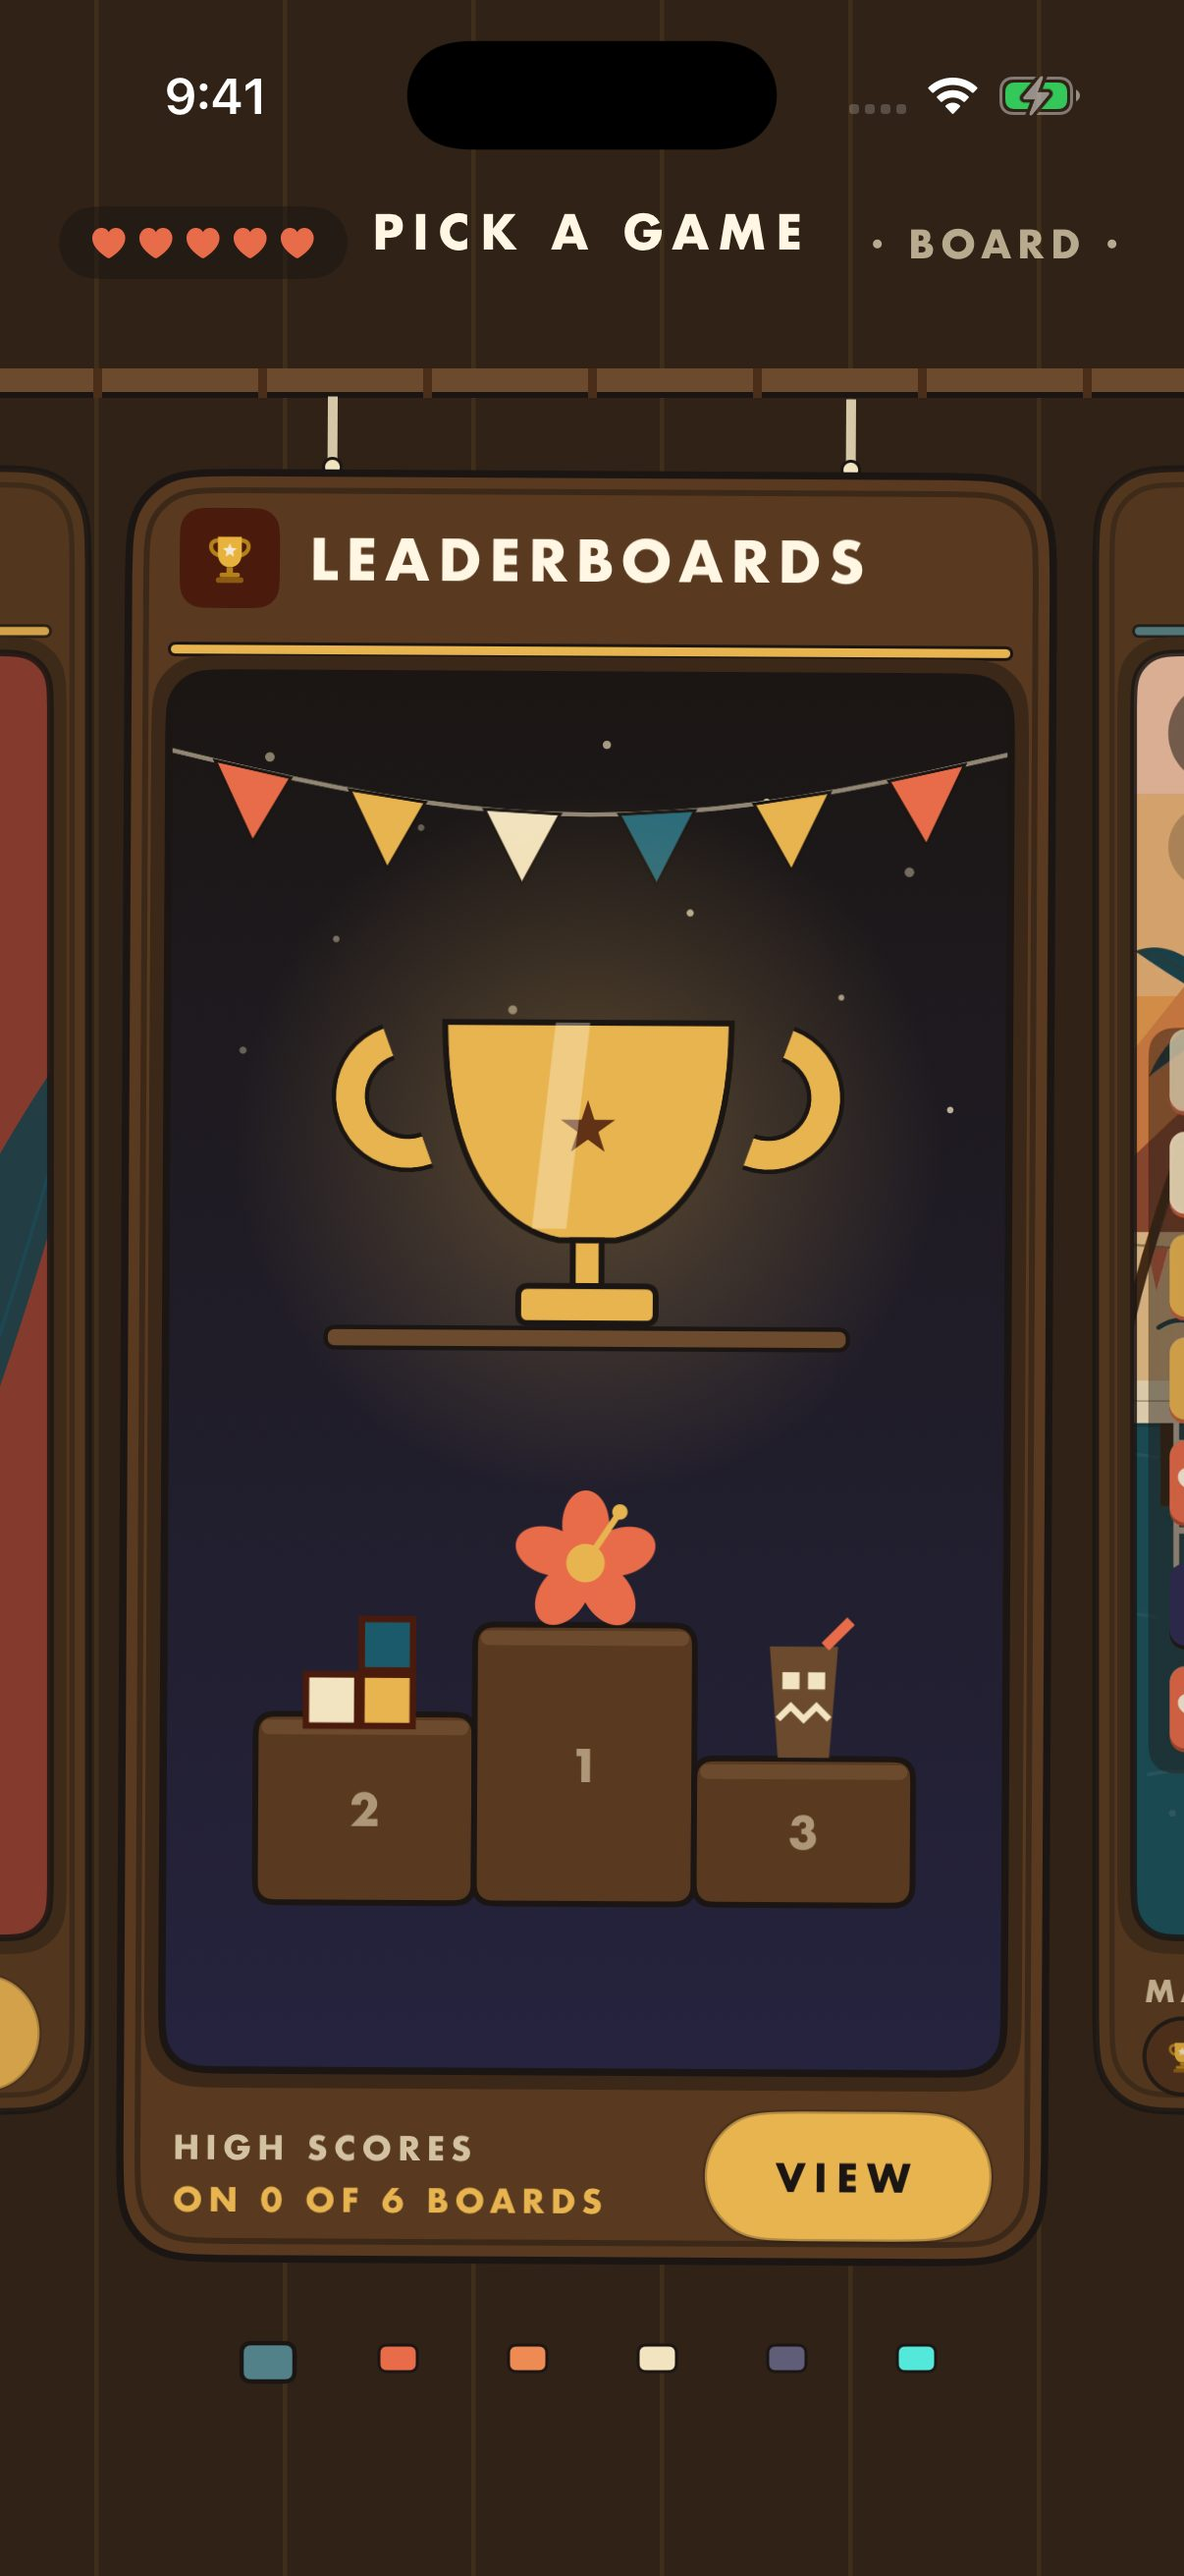
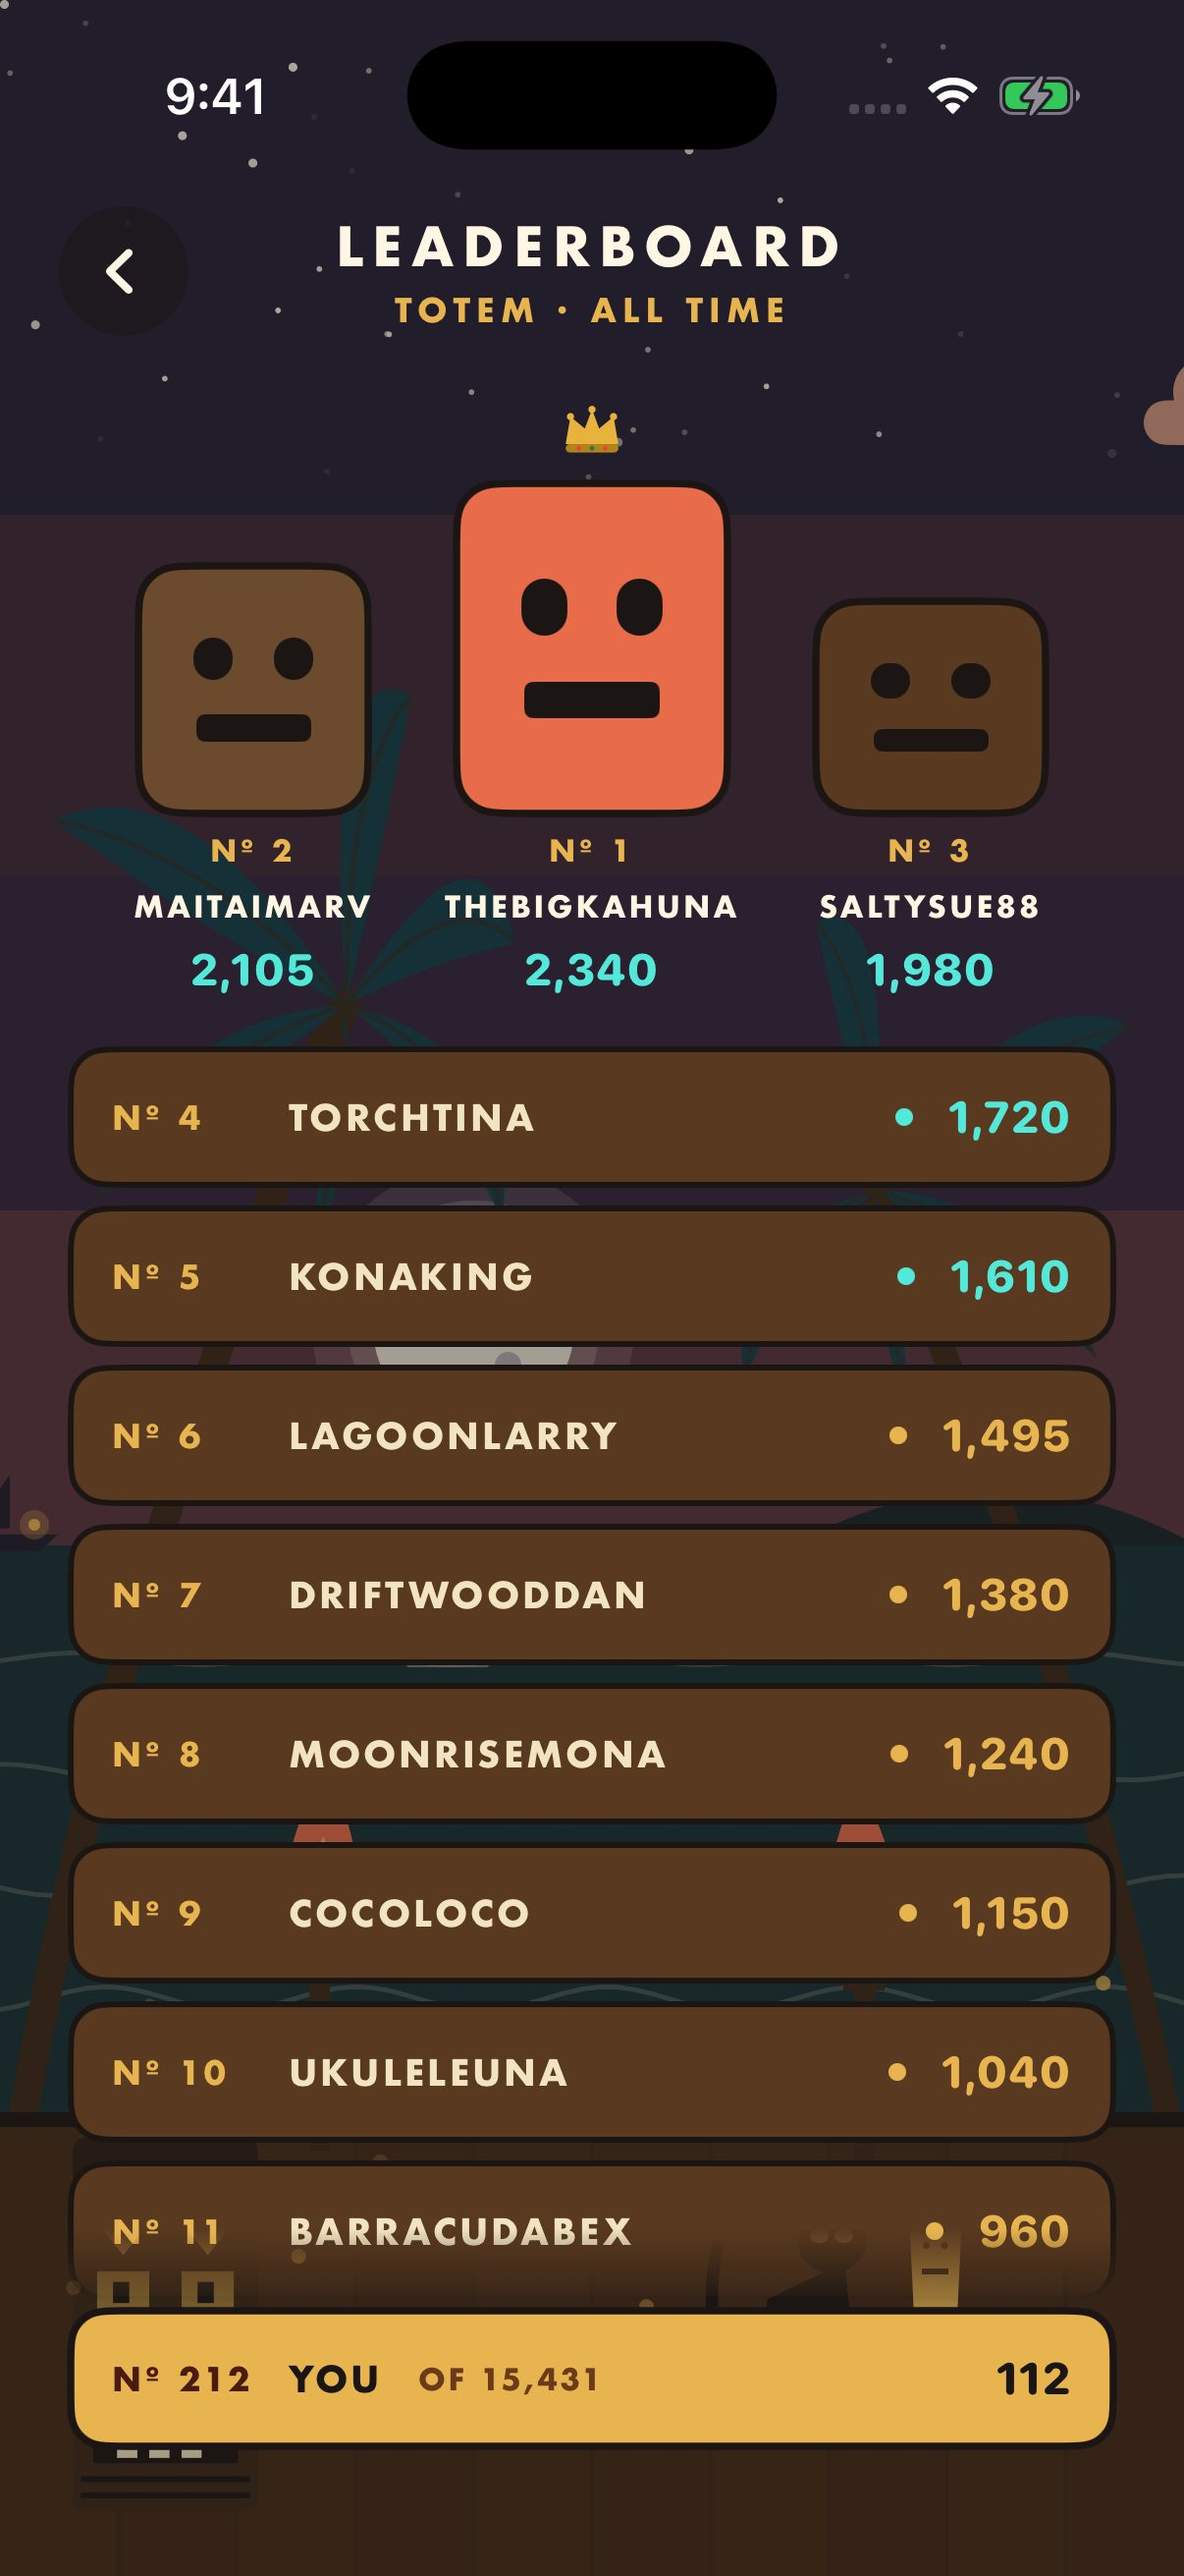
Swap in a live Totem board and add the out-of-lives sheet.
The hanging-sign shot did not show a table. Mock standings do. Lives gets the empty-hearts sheet with the 30-minute countdown.

diff --git a/README.md b/README.md
@@ -76,6 +76,10 @@ Tap Vic in the lounge to see the board. It resets every day. You do not have to 
 
 Five hearts. One pool for every game. Lose a round, lose a heart. One heart comes back every 30 minutes, on the wall clock, even if the app is closed.
 
+<p align="center">
+  <img src="assets/shots-web/11-lives.jpg" width="260" alt="Out of lives">
+</p>
+
 When you are empty, the out-of-lives sheet sits on the board with a live countdown. A life landing while it is open flips the sheet so you can play immediately. The tutorial does not spend a heart.
 
 There is no buy-back. Ads and gold bars on that sheet are "coming soon" on purpose. You wait, or you come back later.
